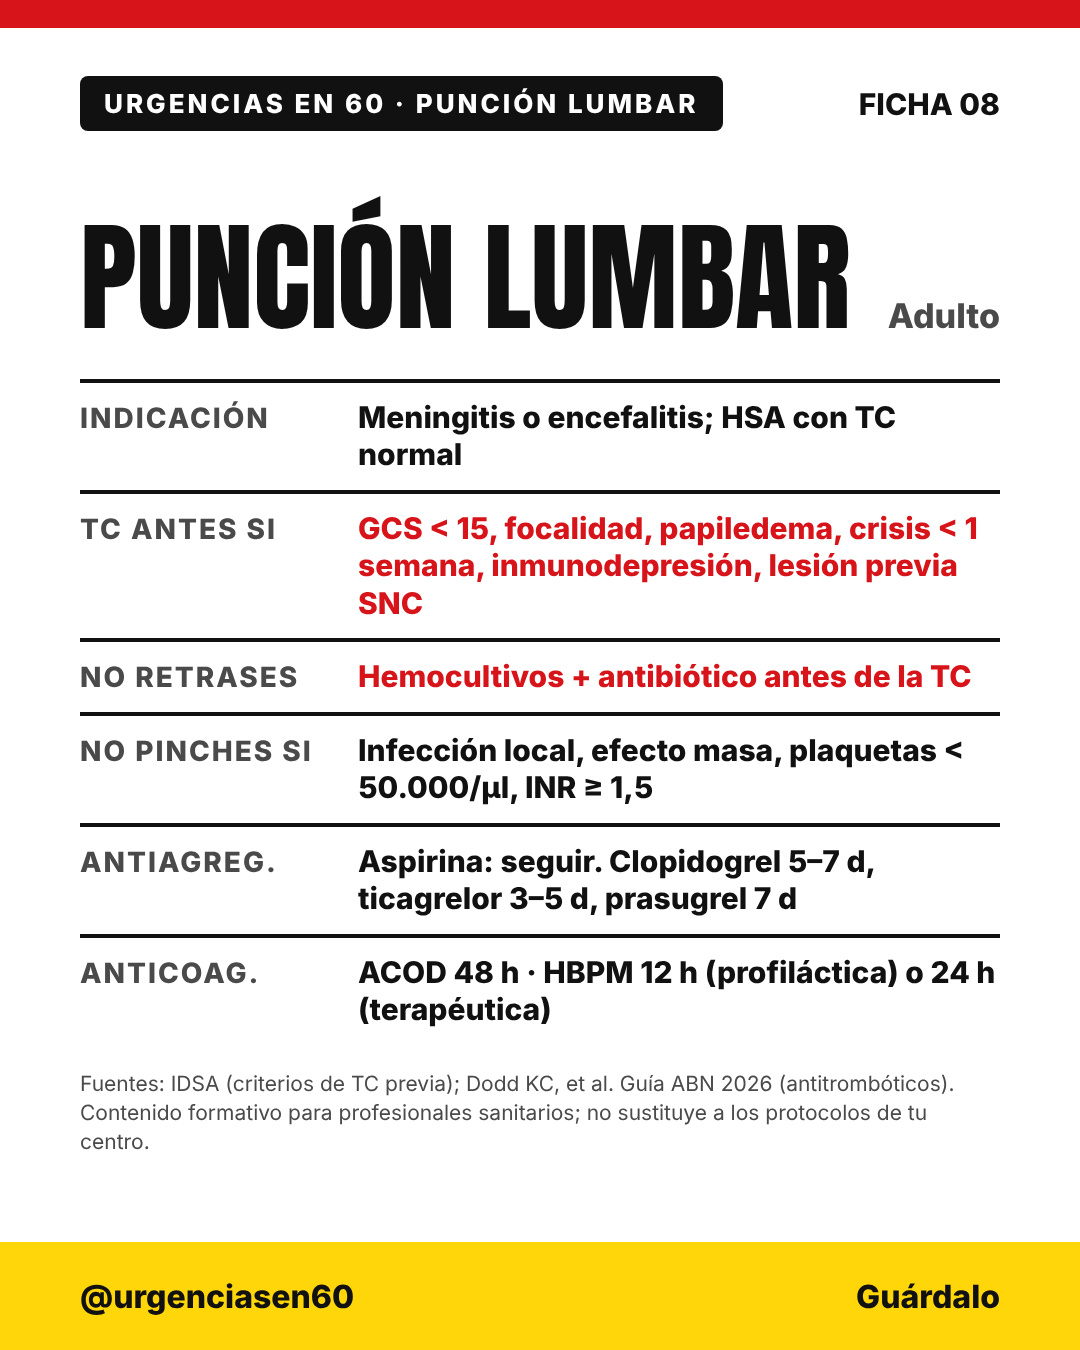
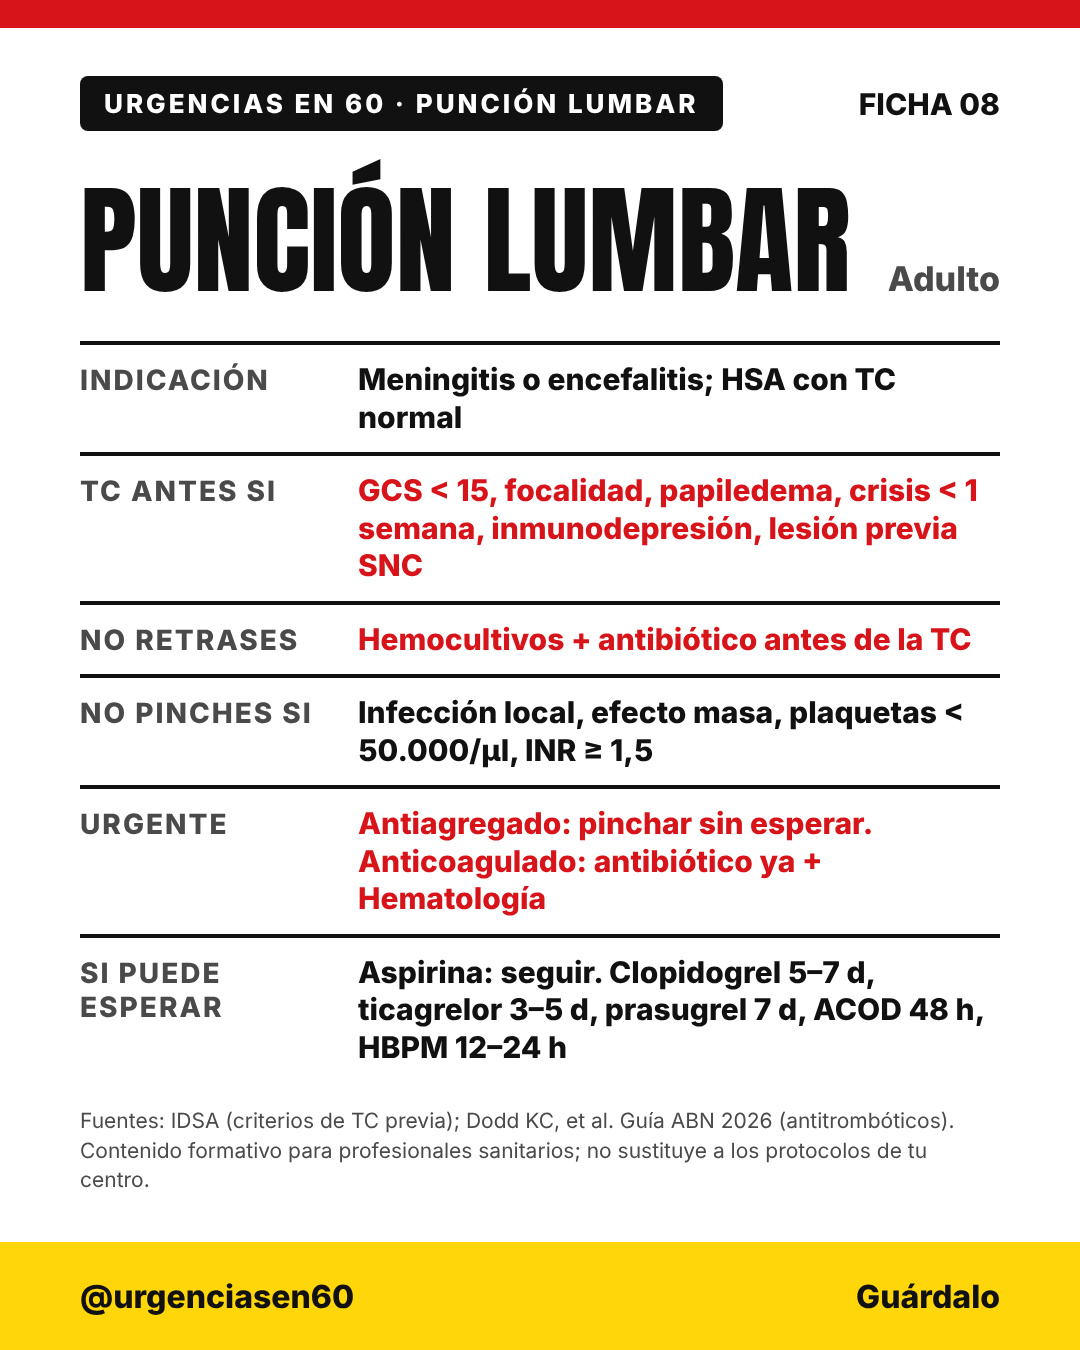
Ficha 08: antitrombóticos con prioridad a la punción urgente
Claude-Session: https://claude.ai/code/session_019S5PG2ppqwuZwMv2DxeA6e

Changed region(s): [[0.0611, 0.1244, 0.9167, 0.6844], [0.0611, 0.7156, 0.9167, 0.9022]]

diff --git a/tools/pl_tc.py b/tools/pl_tc.py
@@ -9,7 +9,7 @@ page(2,N,T,kicker("INDICACIONES EN URGENCIAS")+big("¿PARA QUÉ?",150,nowrap=Tru
 page(3,N,T,kicker("ANTES DE PINCHAR")+big("TC PRIMERO SI…",140,nowrap=True)+rows(line("Bajo nivel de consciencia (GCS &lt; 15)",True),line("Focalidad neurológica o papiledema",True),line("Crisis epiléptica en la última semana"),line("Inmunodepresión (VIH, trasplante, inmunosupresores)"),line("Lesión previa del SNC: masa, ictus, infección focal"))+note("Sin ninguno de estos datos, punción sin TC previa.")),
 page(4,N,T,kicker("SI LA PUNCIÓN SE RETRASA")+big("EL ANTIBIÓTICO NO ESPERA",116,R)+rows(line("Hemocultivos y antibiótico empírico antes de la TC",True),line("Después, TC y punción lumbar cuando sea seguro"))),
 page(5,N,T,kicker("CONTRAINDICACIONES")+big("NO PINCHES SI…",140,nowrap=True)+rows(line("Infección de la piel en el punto de punción",True),line("Efecto masa o signos de herniación en la TC",True),row("Plaquetas","&lt; 50.000/µl"),row("INR","≥ 1,5"))+note("Corrige antes de pinchar y valora con Hematología.")),
-page(6,N,T,kicker("ANTIAGREGADOS Y ANTICOAGULADOS")+big("¿CUÁNTO ESPERAR?",124,nowrap=True)+rows(row("Aspirina","No suspender"),row("Clopidogrel","5–7 días"),row("Ticagrelor","3–5 días"),row("Prasugrel","7 días"),row("ACOD","48 h"),row("HBPM","12 h profiláctica · 24 h terapéutica"))+f'<div style="border-top:4px solid {K};padding-top:20px;font-size:36px;font-weight:800;line-height:1.3;color:{R}">Urgente con antiagregantes: no retrases. Anticoagulado urgente: Hematología.</div>'),
-page(7,N,T,ficha_body("PUNCIÓN LUMBAR","Adulto",[("INDICACIÓN","Meningitis o encefalitis; HSA con TC normal"),("TC ANTES SI","GCS &lt; 15, focalidad, papiledema, crisis &lt; 1 semana, inmunodepresión, lesión previa SNC",True),("NO RETRASES","Hemocultivos + antibiótico antes de la TC",True),("NO PINCHES SI","Infección local, efecto masa, plaquetas &lt; 50.000/µl, INR ≥ 1,5"),("ANTIAGREG.","Aspirina: seguir. Clopidogrel 5–7 d, ticagrelor 3–5 d, prasugrel 7 d"),("ANTICOAG.","ACOD 48 h · HBPM 12 h (profiláctica) o 24 h (terapéutica)")],"IDSA (criterios de TC previa); Dodd KC, et al. Guía ABN 2026 (antitrombóticos)",size=120,fs=30),ficha="08"),
+page(6,N,T,kicker("ANTITROMBÓTICOS")+big("¿MENINGITIS? URGENTE",100,R,True)+rows(line("Antiagregado, incluso con doble antiagregación: pincha sin esperar",True),line("Anticoagulado: antibiótico ya y consulta con Hematología para revertir",True))+f'<div style="border-top:4px solid {K};padding-top:18px;font-size:36px;font-weight:800">Si la punción puede esperar:</div>'+rows(row("Aspirina","No suspender"),row("Clopidogrel","5–7 días"),row("Ticagrelor · prasugrel","3–5 · 7 días"),row("ACOD · HBPM","48 h · 12–24 h"))),
+page(7,N,T,ficha_body("PUNCIÓN LUMBAR","Adulto",[("INDICACIÓN","Meningitis o encefalitis; HSA con TC normal"),("TC ANTES SI","GCS &lt; 15, focalidad, papiledema, crisis &lt; 1 semana, inmunodepresión, lesión previa SNC",True),("NO RETRASES","Hemocultivos + antibiótico antes de la TC",True),("NO PINCHES SI","Infección local, efecto masa, plaquetas &lt; 50.000/µl, INR ≥ 1,5"),("URGENTE","Antiagregado: pinchar sin esperar. Anticoagulado: antibiótico ya + Hematología",True),("SI PUEDE ESPERAR","Aspirina: seguir. Clopidogrel 5–7 d, ticagrelor 3–5 d, prasugrel 7 d, ACOD 48 h, HBPM 12–24 h")],"IDSA (criterios de TC previa); Dodd KC, et al. Guía ABN 2026 (antitrombóticos)",size=120,fs=30),ficha="08"),
 ]
 render(P,sys.argv[1] if len(sys.argv)>1 else "out","pl-tc-antes")
